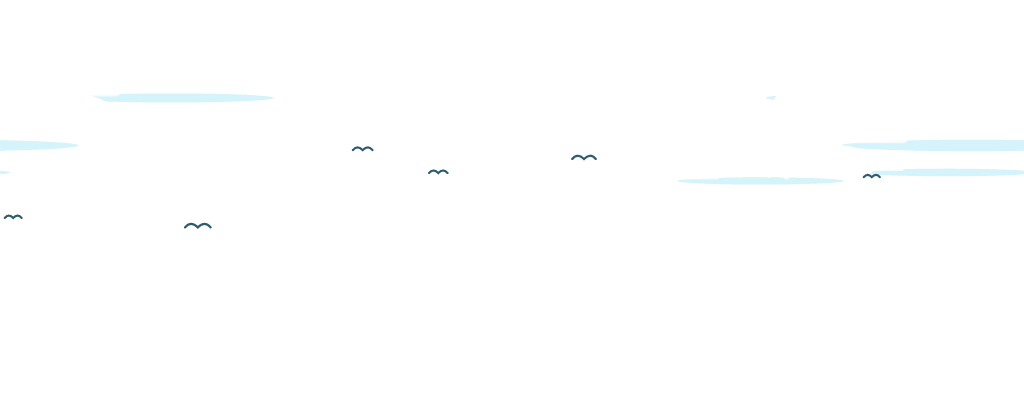
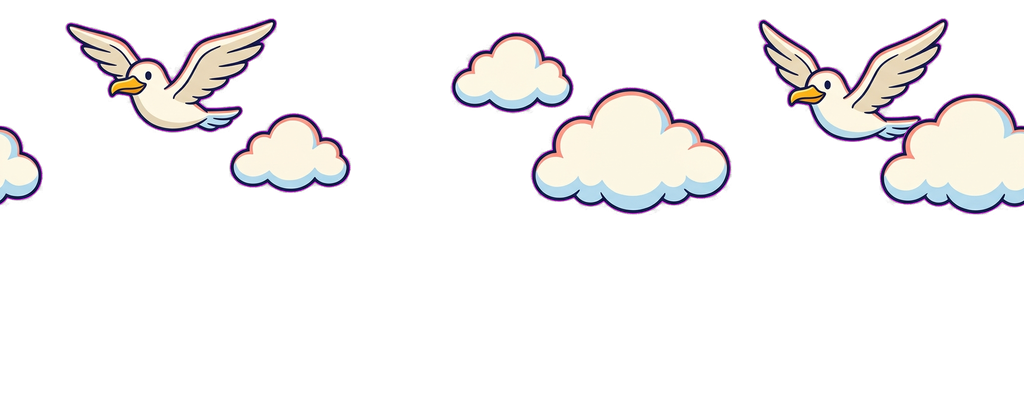
feat(art): replace clouds_far with agy-generated toon clouds for six maps
Adds agy_clouds_compose.py, which keys a magenta sprite sheet and lays the
pieces out as a seamless 1024x400 layer. volcano_rift is still pending.

diff --git a/tools/assets/agy_clouds_compose.py b/tools/assets/agy_clouds_compose.py
@@ -1,0 +1,66 @@
+"""agy / web chat 生的洋紅底雲朵圖集 → 去背切開 → 錯落排成可左右銜接的 1024x400 clouds_far 層。
+用法: python -I tools/assets/agy_clouds_compose.py <sheet.png> <out.png> [--scale 0.8] [--tall-first] [--strict] [--backup <old.png>]
+雲全落在上半部（遊戲裡此層只顯示高 220 的帶狀區），分兩列、各自水平均分，第二列錯開半格；邊緣留白故自然銜接。
+"""
+import sys, shutil
+import numpy as np
+from PIL import Image
+import cv2
+
+src, out = sys.argv[1:3]
+scale = float(sys.argv[sys.argv.index('--scale') + 1]) if '--scale' in sys.argv else 0.8
+if '--backup' in sys.argv:
+    shutil.copy(out, sys.argv[sys.argv.index('--backup') + 1])
+
+a = np.asarray(Image.open(src).convert('RGB')).astype(np.float32)
+orig = a.copy()
+m = np.minimum(a[..., 0], a[..., 2]) - a[..., 1]
+alpha = 1 - np.clip((m - 60) / 100, 0, 1)
+spill = np.clip((m - 20) / 100, 0, 1)[..., None]
+g = a[..., 1:2]
+a = a * (1 - spill) + np.concatenate([g, g, g], -1) * spill * 0.9
+if '--strict' in sys.argv:  # 圖裡本身有粉紅/洋紅色塊時：只去掉與 #ff00ff 幾乎相同的底色，不用「洋紅度」判斷
+    dist = np.sqrt(((orig - np.array([255, 0, 255], np.float32)) ** 2).sum(-1))
+    alpha = np.clip((dist - 45) / 40, 0, 1)
+    spill = (dist < 70).astype(np.float32)[..., None] * np.clip((m - 20) / 100, 0, 1)[..., None]  # 只處理貼近底色的邊緣滲色
+    a = orig * (1 - spill) + np.concatenate([g, g, g], -1) * spill * 0.9
+rgba = np.dstack([a, alpha * 255]).clip(0, 255).astype(np.uint8)
+
+solid = cv2.dilate((alpha > 0.5).astype(np.uint8), np.ones((15, 15), np.uint8))
+n, lab, stats, _ = cv2.connectedComponentsWithStats(solid)
+pieces = []
+for i in range(1, n):
+    x, y, w, h, area = stats[i]
+    if area < 800:
+        continue
+    sub = rgba[y:y + h, x:x + w].copy()
+    sub[..., 3] = np.where(lab[y:y + h, x:x + w] == i, sub[..., 3], 0)
+    p = Image.fromarray(sub, 'RGBA')
+    p = p.crop(p.getchannel('A').point(lambda v: 255 if v > 24 else 0).getbbox())
+    pieces.append(p.resize((round(p.width * scale), round(p.height * scale)), Image.LANCZOS))
+pieces.sort(key=lambda p: -p.width)
+print('pieces', [p.size for p in pieces])
+
+# 大小交錯分兩列：第一列取 大、小、中，第二列取 次大、小、中
+tall = '--tall-first' in sys.argv  # 有高大的飄帶/煙柱時：最高的 3 個放上列、其餘放下列，避免上下列重疊
+if tall:
+    pieces.sort(key=lambda p: -p.height)
+    rows = [pieces[:3], pieces[3:]]
+else:
+    rows = [[pieces[i] for i in (0, 4, 2)], [pieces[i] for i in (5, 1, 3)]] if len(pieces) >= 6 else [pieces[0::2], pieces[1::2]]
+W, H = 1024, 400
+wide = Image.new('RGBA', (W * 3, H), (0, 0, 0, 0))  # 先畫在三倍寬，再把兩側摺回來，跨界的雲才會銜接
+for r, row in enumerate(rows):
+    slot = W / len(row)
+    off = slot * 0.35 * r
+    ybase = 10 if r == 0 and tall else (170 if tall else 18 + r * 95)
+    for k, p in enumerate(row):
+        cx = (off + slot * (k + 0.5)) % W
+        y = ybase + (0 if tall else (k % 2) * 14)
+        if not tall:
+            y = min(y, 215 - p.height)  # 遊戲只顯示上方 220 高的帶狀區，別讓雲被切掉
+        wide.alpha_composite(p, (round(cx - p.width / 2) + W, y))
+canvas = wide.crop((W, 0, 2 * W, H))
+canvas.alpha_composite(wide.crop((0, 0, W, H)))
+canvas.alpha_composite(wide.crop((2 * W, 0, 3 * W, H)))
+canvas.save(out)
